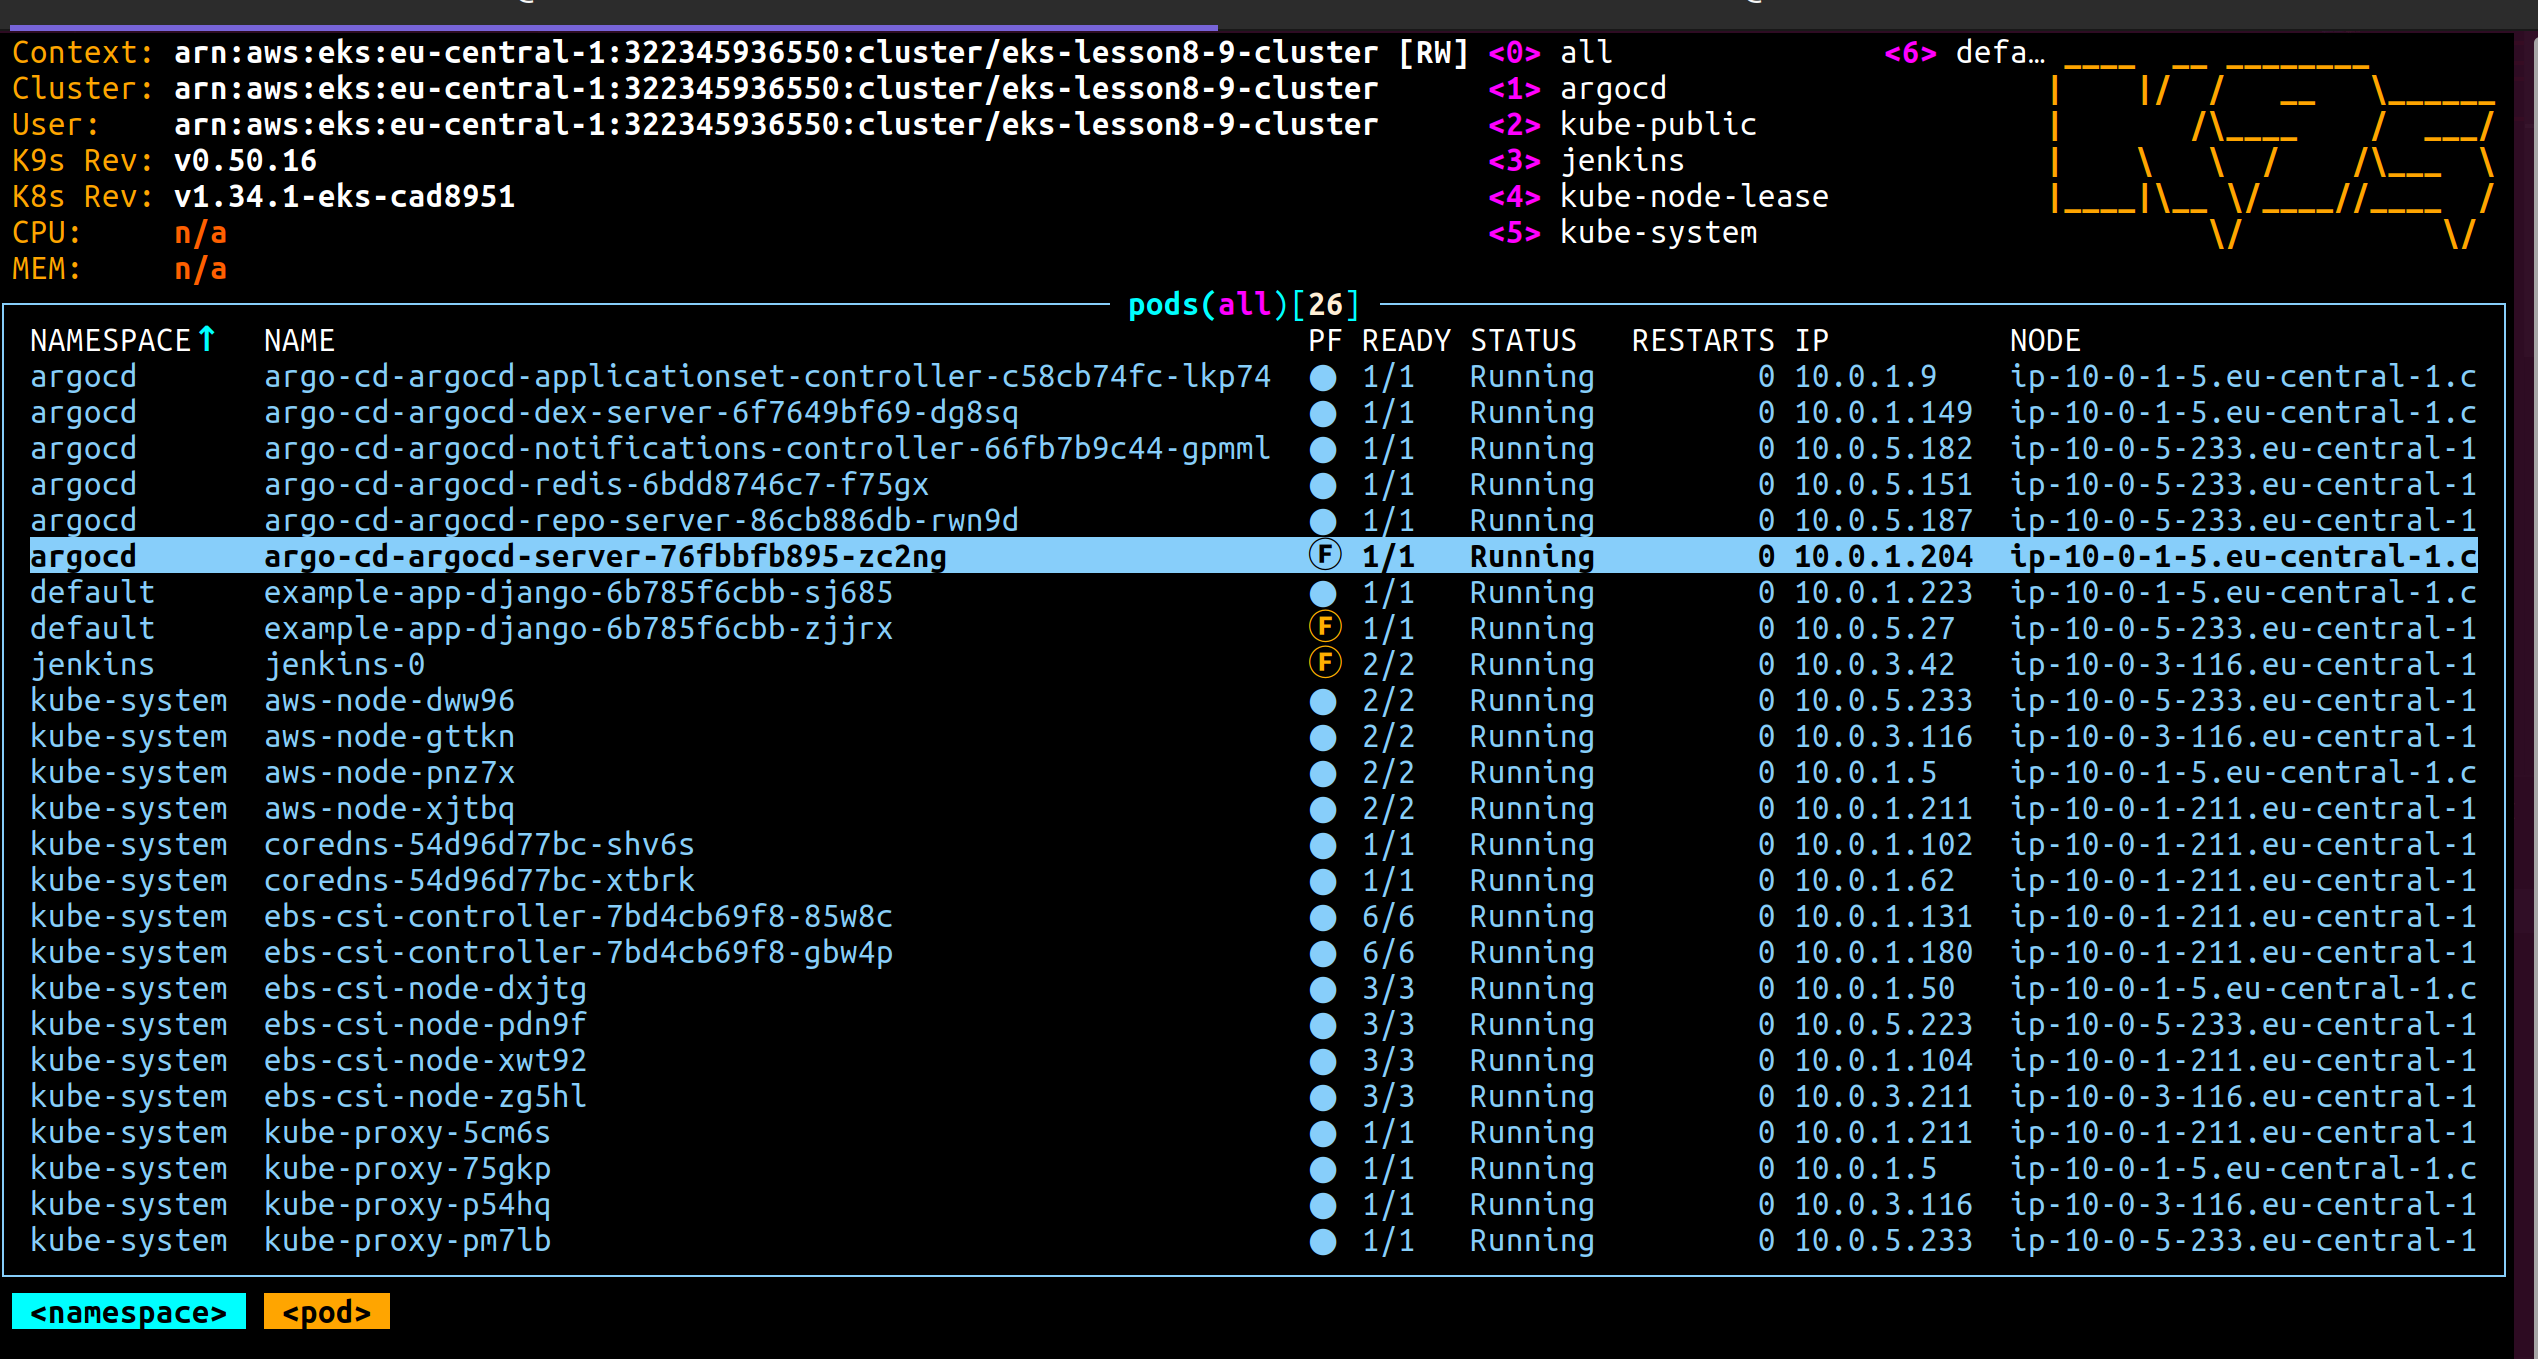
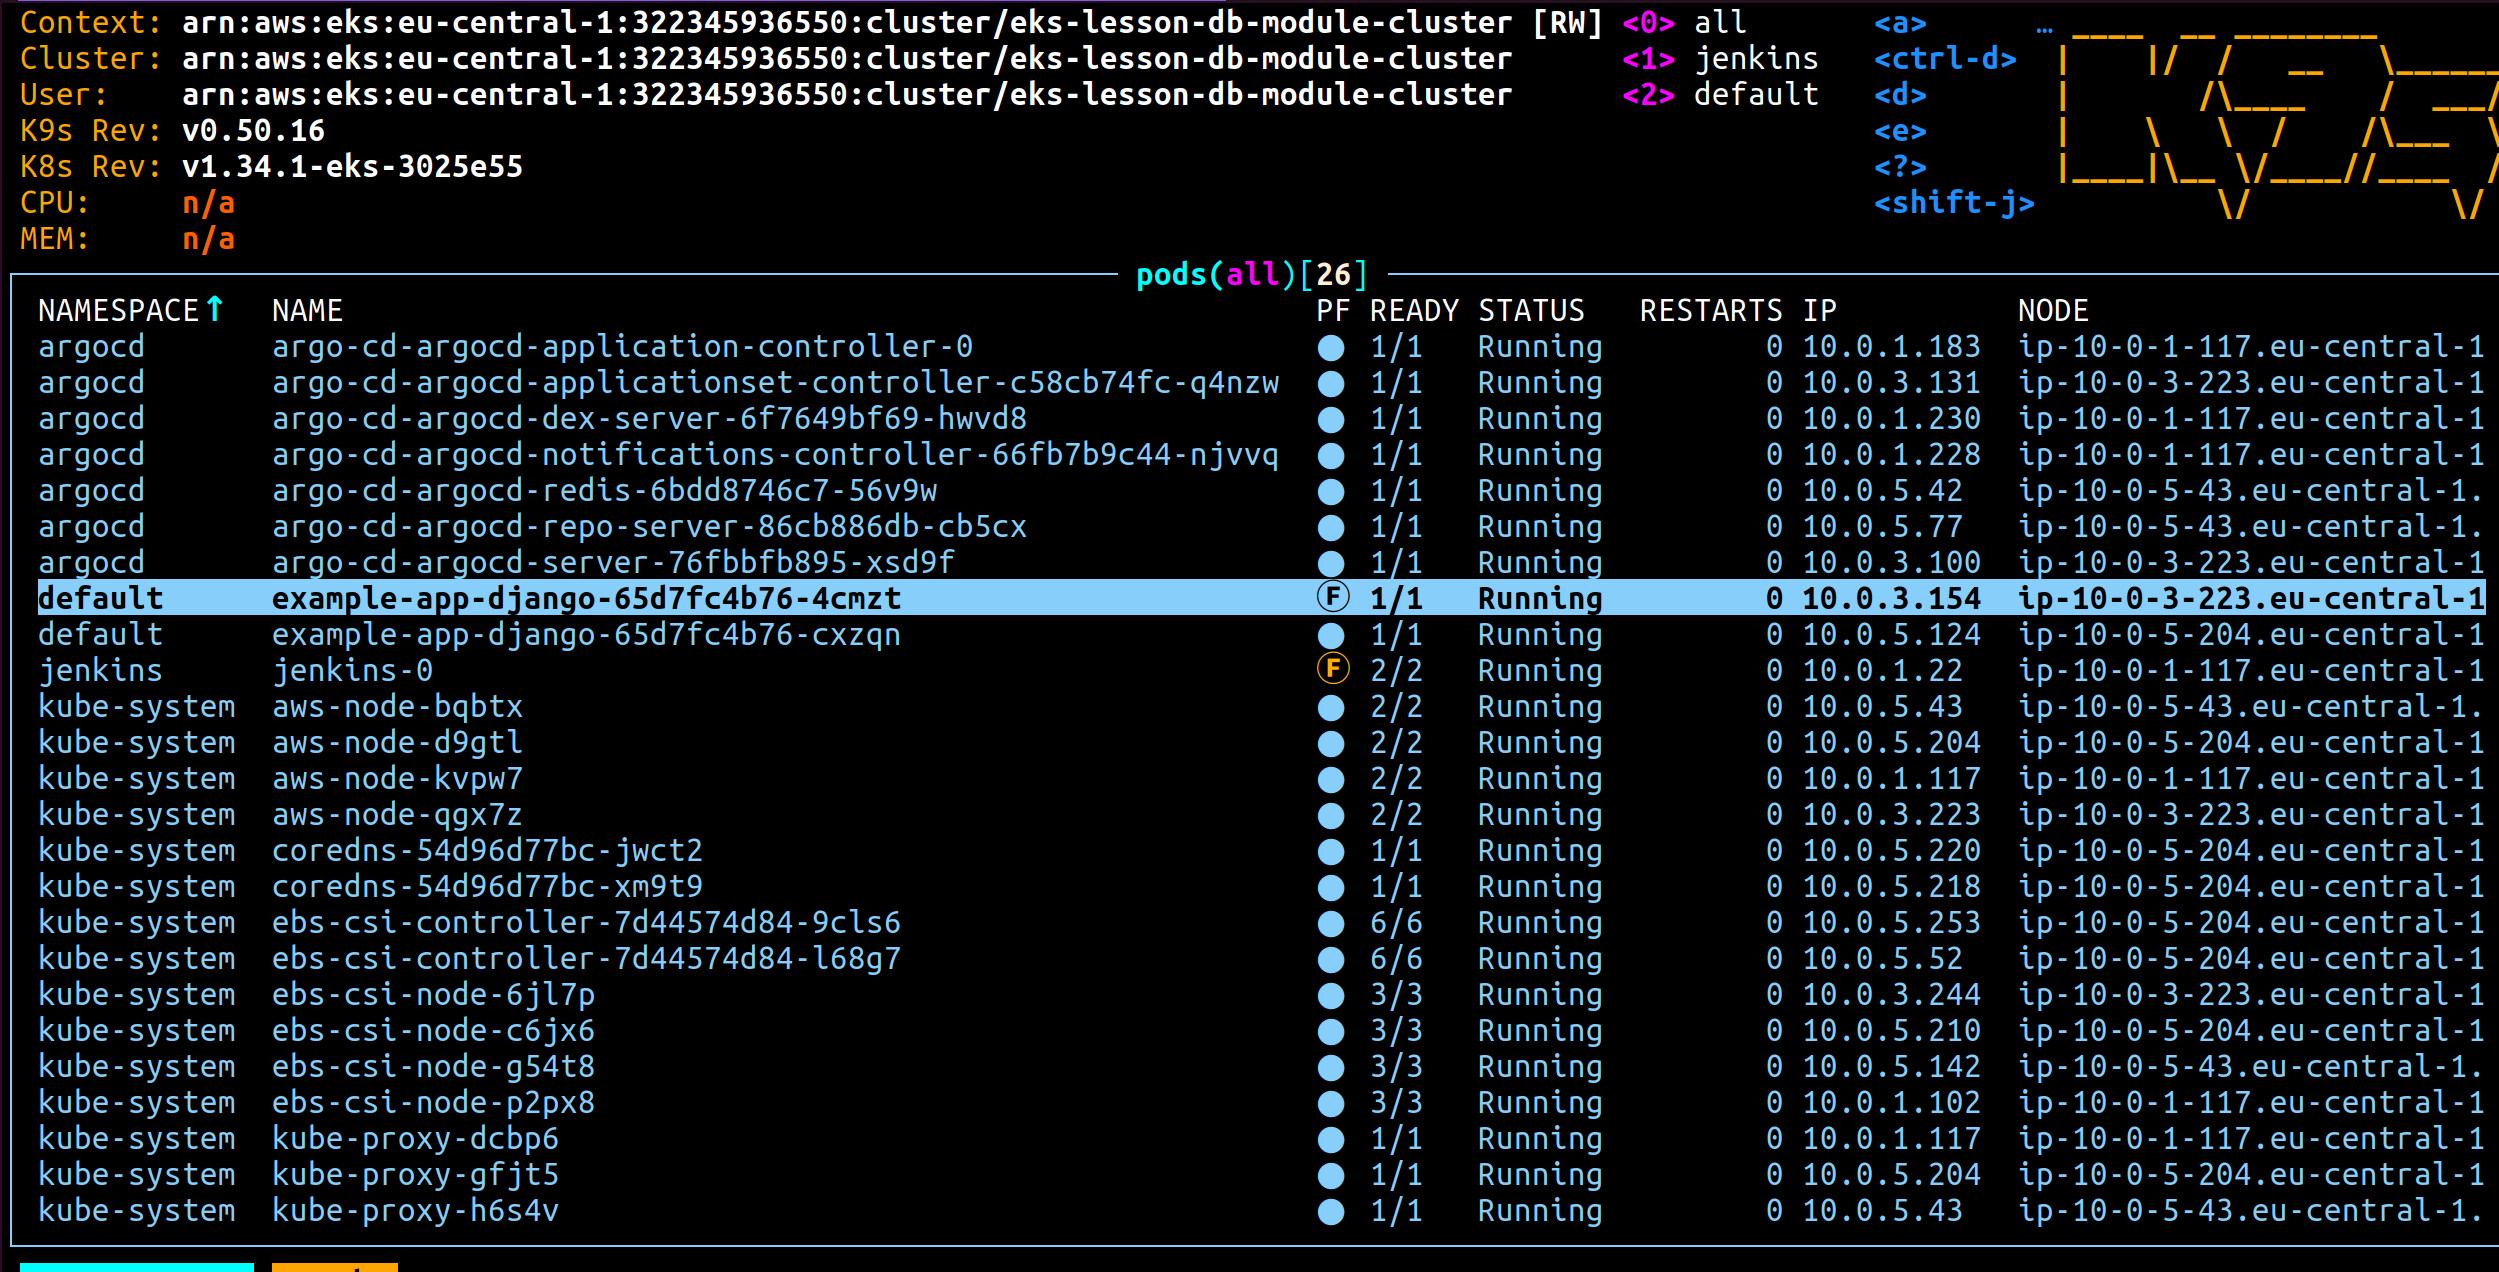
add hw

Changed region(s): [[0.0, 0.0, 1.0, 1.0]]

diff --git a/README.md b/README.md
@@ -1,64 +1,50 @@
 # Terraform
 
-In terraform we add new module for EKS:
+In terraform we add new module for RDS:
 
 ```hcl
 
+module "rds" {
+  source = "./modules/rds"
 
-data "aws_eks_cluster" "eks" {
-  name = module.eks.eks_cluster_name
+  name                  = "my-app-db"
+  use_aurora            = false
+  aurora_instance_count = 2
+  # RDS
+  engine                     = "postgres"
+  engine_version             = "17.2"
+  parameter_group_family_rds = "postgres17"
+  # Aurora
+  engine_cluster                = "aurora-postgresql"
+  engine_version_cluster        = "15.3"
+  parameter_group_family_aurora = "aurora-postgresql15"
 
-  depends_on = [module.eks]
-}
-
-data "aws_eks_cluster_auth" "eks" {
-  name = module.eks.eks_cluster_name
-
-  depends_on = [module.eks]
-}
-
-provider "kubernetes" {
-  alias                  = "eks"
-  host                   = data.aws_eks_cluster.eks.endpoint
-  cluster_ca_certificate = base64decode(data.aws_eks_cluster.eks.certificate_authority[0].data)
-  token                  = data.aws_eks_cluster_auth.eks.token
-}
-
-provider "helm" {
-  kubernetes = {
-    host                   = data.aws_eks_cluster.eks.endpoint
-    cluster_ca_certificate = base64decode(data.aws_eks_cluster.eks.certificate_authority[0].data)
-    token                  = data.aws_eks_cluster_auth.eks.token
+  instance_class          = "db.t3.micro"
+  allocated_storage       = 20
+  db_name                 = "myappdb"
+  username                = "postgres"
+  password                = "admin123AWS23"
+  subnet_private_ids      = module.vpc.private_subnets
+  subnet_public_ids       = module.vpc.public_subnets
+  publicly_accessible     = true
+  vpc_id                  = module.vpc.vpc_id
+  multi_az                = true
+  backup_retention_period = 0
+  parameters = {
+    max_connections            = "200"
+    log_min_duration_statement = "500"
+  }
+  tags = {
+    Environment = "dev"
+    Project     = "my-app-db"
   }
 }
-
-
-module "jenkins" {
-  source       = "./modules/jenkins"
-  cluster_name = module.eks.eks_cluster_name
-  providers = {
-    helm = helm
-  }
-  oidc_provider_arn = module.eks.oidc_provider_arn
-  oidc_provider_url = module.eks.oidc_provider_url
-
-  depends_on = [
-    module.eks
-  ]
-}
-
-
-module "argo_cd" {
-  source        = "./modules/argo-cd"
-  namespace     = "argocd"
-  chart_version = "5.46.4"
-}
-
-
 
 ```
 
-And apply changes:
+And also describe RDS module with Aurora in **modules/rds/rds.tf** and **modules/rds/aurora.tf**
+
+After apply our changes:
 
 ```bash
 terraform init
@@ -70,110 +56,54 @@ After all infrastructure is created we can see this output pods:
 
 ![pods](./images/pods.png)
 
-Save ECR repository URL, it will be used to push image to ECR
 
-In my case it is: `322345936550.dkr.ecr.eu-central-1.amazonaws.com/lesson-db-module-ecr`
+After database is created we can see this in AWS console:
 
-and provide it to Jenkinsfile:
+![db](./images/db.png)
 
-```Jenkinsfile
-ECR_REGISTRY = "322345936550.dkr.ecr.eu-central-1.amazonaws.com"
-IMAGE_NAME   = "lesson-db-module-ecr"
-```
 
-# EKS
-For EKS cluster we need to get kubeconfig file
 
-`aws eks --region eu-central-1 update-kubeconfig --name eks-lesson8-9-cluster`
+and now we can connect our app to database using only Jenkins pipeline and ArgoCD:
 
-Check if it is working:
 
-`kubectl get nodes`
+# App Changes
 
-After this we can comment our providers in main.tf file
-and use the local config:
+Update our config in **settings.py** from sqlite to postgresql:
 
-```hcl
-provider "kubernetes" {
-  config_path = "~/.kube/config"
-}
+```python
+POSTGRES_HOST = os.environ.get("POSTGRES_HOST", "localhost")
+POSTGRES_PORT = os.environ.get("POSTGRES_PORT", "5433")
+POSTGRES_DB = os.environ.get("POSTGRES_DB", "postgres")
+POSTGRES_USER = os.environ.get("POSTGRES_USER", "postgres")
+POSTGRES_PASSWORD = os.environ.get("POSTGRES_PASSWORD", "password")
 
-provider "helm" {
-  kubernetes = {
-    config_path = "~/.kube/config"
-  }
+DATABASES = {
+    "default": {
+        "ENGINE": "django.db.backends.postgresql",
+        "HOST": POSTGRES_HOST,
+        "PORT": int(POSTGRES_PORT),
+        "NAME": POSTGRES_DB,
+        "USER": POSTGRES_USER,
+        "PASSWORD": POSTGRES_PASSWORD,
+    }
 }
 ```
+Push and build with Jenkins pipeline:
 
-# Jenkins
+![pipeline](./images/jenkins.png)
 
-Jenkins we autoconfigure using the JCasC
-
-
-add credentials to jenkins:
-
-```yaml
-credentials: |
-        credentials:
-          system:
-            domainCredentials:
-              - credentials:
-                  - usernamePassword:
-                      scope: GLOBAL
-                      id: github-token
-                      username: hrebynakha
-                      password: # provide your github token here
-                      description: GitHub PAT
-```
-
-add new job to jenkins:
-
-```yaml
-jobs:
-- script: |
-    folder('jcasc') # create folder jcasc
-
-- script: |
-    pipelineJob("jcasc/goit-django-docker")  # create pipeline job
-    ....
-```
-
-
-
-In Jenkins we can see this:
-Credentials:
-![credentials](./images/jks-pat.png)
-
-JCasC:
-![jcasc](./images/jcasc.png)
-
-
-
-
-after this we can run pipeline job:
-
-![pipeline](./images/jks-job.png)
 
 # ArgoCD
 
-ArgoCD we autoconfigure using the  helm chart
-In the  argocd module we provide values.yaml file with the values for the chart to add application automatically
+For ArgoCD we use helm chart to deploy application and provide db connection values in values.yaml file:
 ```yaml
-repositories:
-  - name: goit-devops-django-app
-    url: "https://github.com/hrebynakha/goit-devops.git"
-    username: hrebynakha
-    password: # provide your github token here
+config:
+  POSTGRES_PORT: 5432
+  POSTGRES_HOST: dbhost.rds.amazonaws.com # from RDS module
+  POSTGRES_USER: postgres
+  POSTGRES_DB: myappdb
+  POSTGRES_PASSWORD: dbpassword # from RDS module
 ```
-To verify that our helm chart was deployed we can use `k9s` to see it:
+To verify that connection is working we can forward port to local machine using `k9s` and open our application in browser:
 
-![helm](./images/helm-charts.png)
-
-After argocd module was up by terraform and helm chart was deployed we can see application in argocd:
-
-![argocd](./images/argo-app.png)
-
-
-After application was synchronized and forwarding port to local machine we can see this:
-
-![TestApp](./images/app-tes.png)
+![TestApp](./images/app-test.png)
